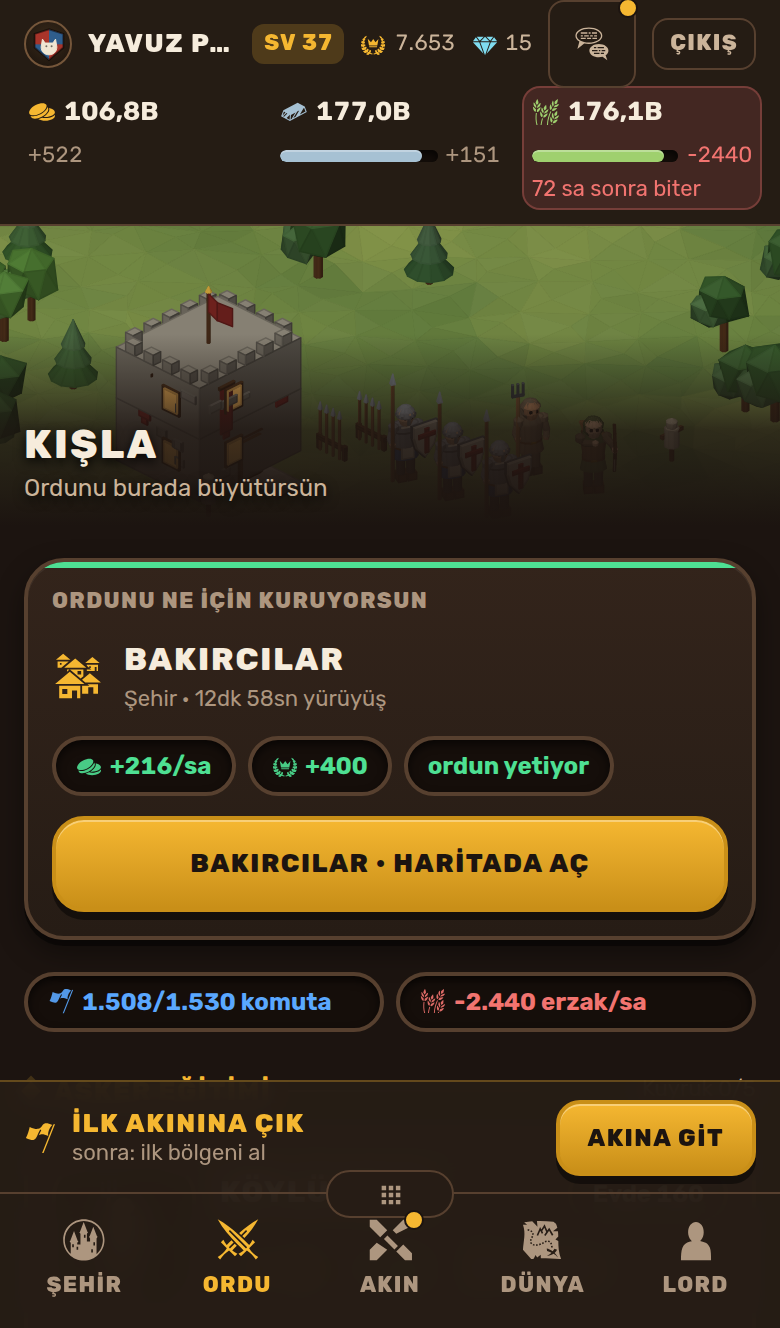
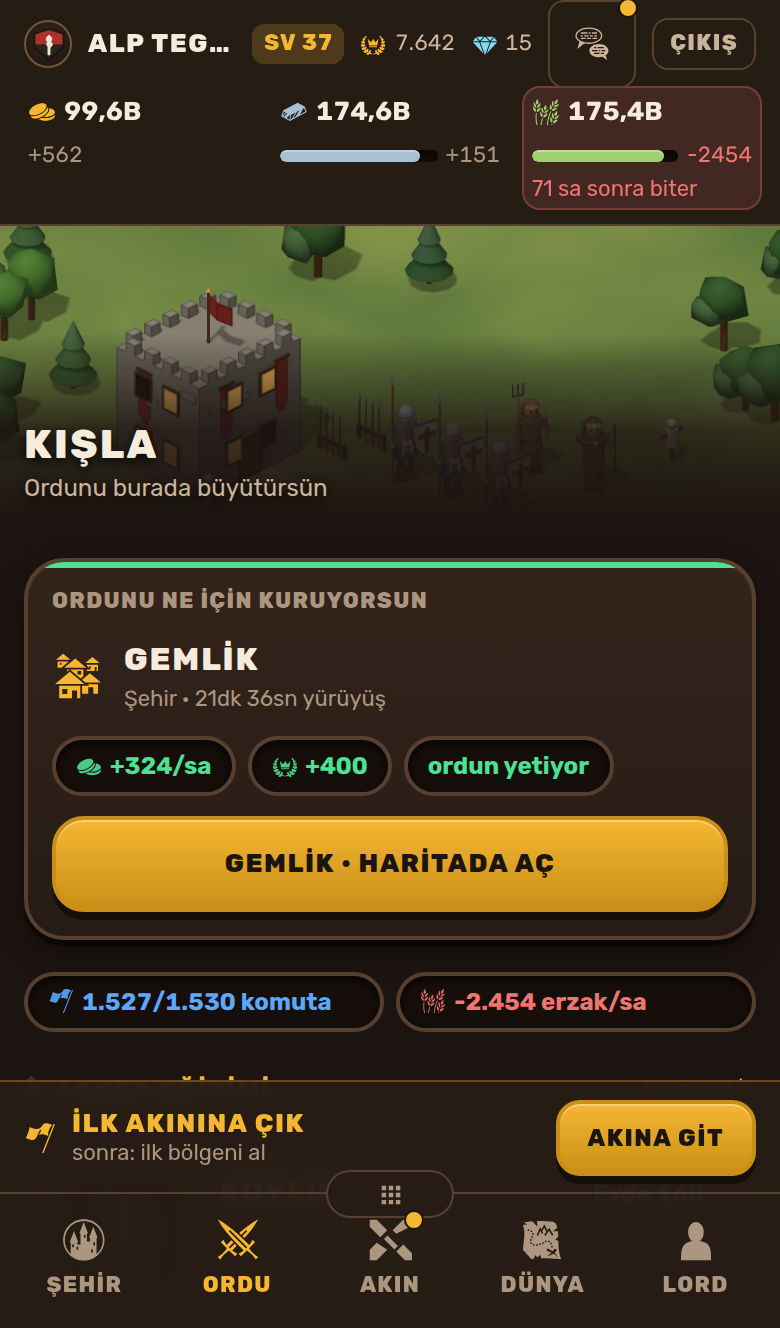
README ekran görüntüleri GPU çizimiyle
Dokuz görüntü aynı kurguyla yeniden çekildi; bu sefer gerçek cihazdaki
gibi GPU yolundan: yumuşak ışık, binaların ve ağaçların düşürdüğü
gölge, kenar yumuşatma, dünya haritasında akan arazi ve kara yoluna
oturan kıyı. Başsız tarayıcıda WebGL yazılım olduğu için çekimde
geliştirme bayrağı (gl-yazilim) açıktı; her çekim sahnelerin ve dünya
zemininin GPU resmi gelene kadar bekledi. Boyut aynı (780×1328).

Claude-Session: https://claude.ai/code/session_01ErYGbKMhuufVnb7xaJpob9

diff --git a/README.md b/README.md
@@ -200,7 +200,7 @@ apps/api/                 Fastify + Prisma + PostgreSQL
   src/services/           İş kuralları
   src/worker.ts           10 sn aralıkla yürüyüş ve kuyruk çözümü
 apps/web/                 React + Vite + Tailwind, yedi ekran
-  src/cizim/              Kodla çizim: low-poly izometrik motor, SVG'ye çiziyor
+  src/cizim/              Kodla çizim: low-poly izometrik motor; GPU'da (WebGL2), yoksa SVG
 tools/
   generate_map.py         Haritayı DOĞRULAYAN script (artık üretmiyor)
   gorsel-denetim.mjs      Her ekranın kodla çizilen görsellerini ve taşmaları denetler
